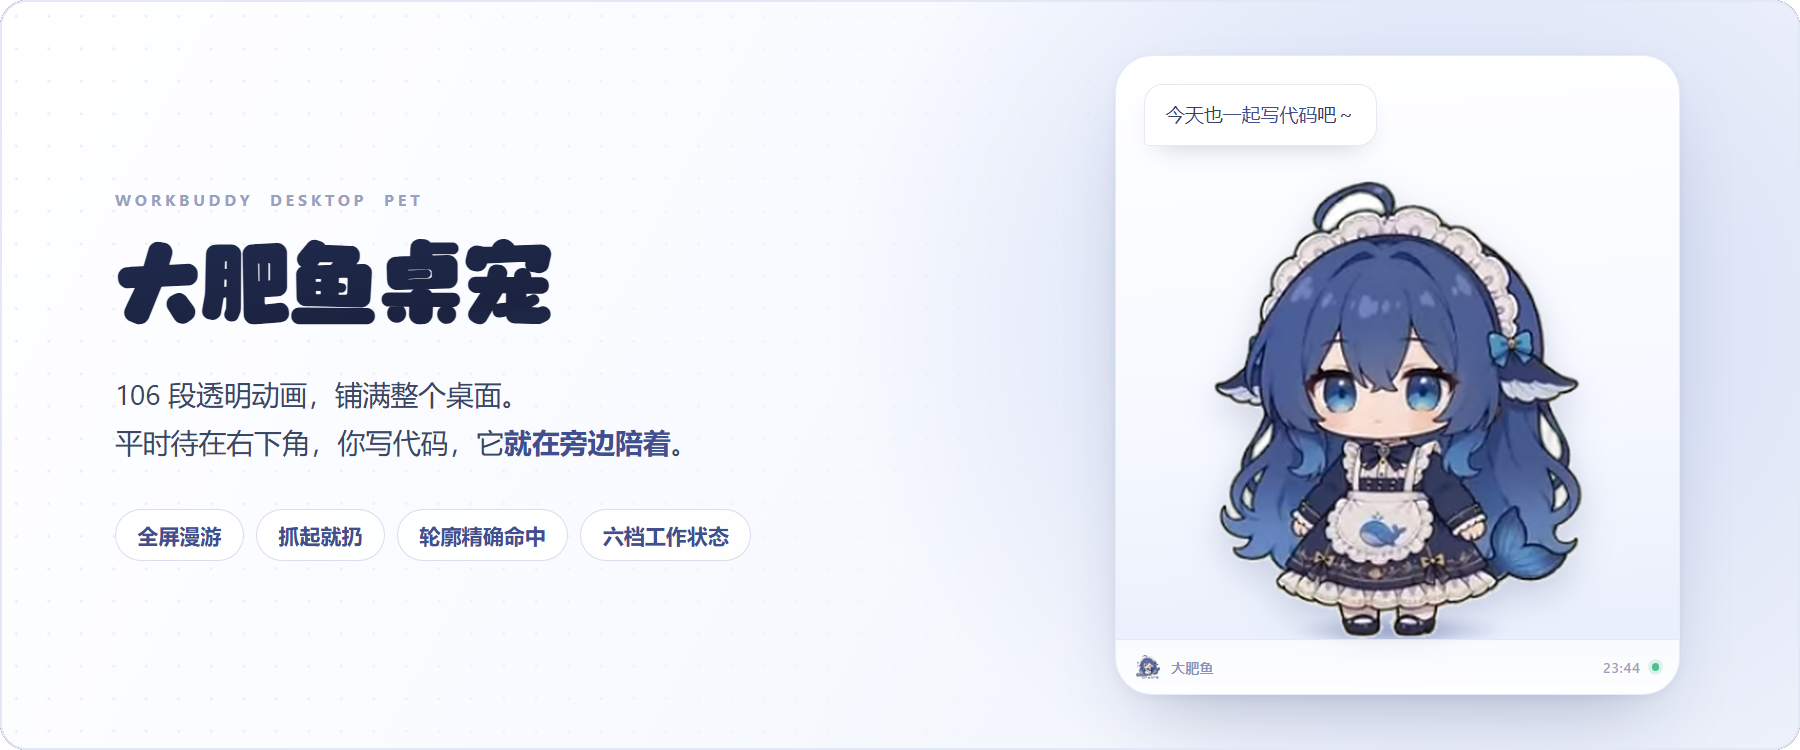
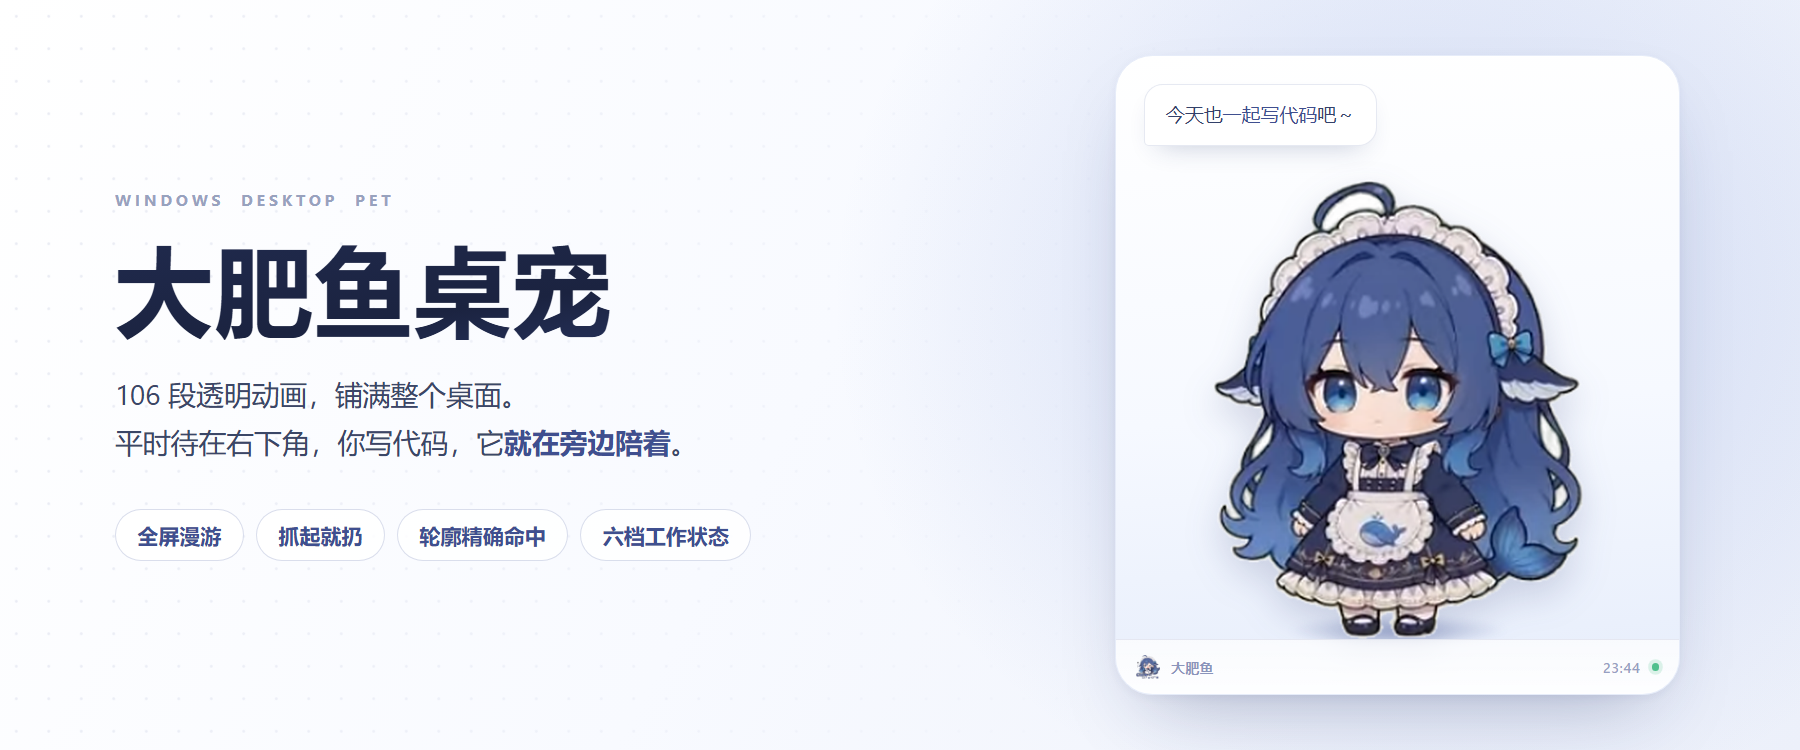
文案改成通用桌面宠物定位
- README：标题 / 副标题 / 状态联动 / 常驻 / FAQ 统一去掉特定工具指向，
  "预览面板""这台机器"等开发者措辞改口语；常驻一节删掉改版历史叙述，
  只留「登录自启 + 崩溃自愈」两条用户关心的
- 头图眼标 WORKBUDDY DESKTOP PET → WINDOWS DESKTOP PET，重渲 docs/hero.png
- 窗口标题、desktop/package.json 描述、CLI help、config 注释、start.bat 提示同步
- 托盘「开机自启」与计划任务的关系补成一张表，说清是两条路任选

diff --git a/js/config.js b/js/config.js
@@ -1,4 +1,4 @@
-// wb-pet 配置（等价于 dsh-pet 0.3.7 的 assets/config.jsonc，去掉注释、按 WorkBuddy 场景裁剪）
+// wb-pet 配置（等价于 dsh-pet 0.3.7 的 assets/config.jsonc，去掉注释、按桌面场景裁剪）
 // 想换动作池 / 权重 / 物理手感，改这里即可；所有字段缺失时 js/pet.js 内部有兜底。
 
 export const DEFAULT_CONFIG = {
@@ -18,7 +18,7 @@ export const DEFAULT_CONFIG = {
       name: '大肥鱼',
       size: 560,                     // 宽度 px，高度自动 = size × 9/16（16:9 画布里人物约占 1/3 宽）
       fixedEnabled: false,           // true = 随机链不再自己转身 / 走开
-      workStatusEnabled: true,       // 跟随 WorkBuddy 会话状态切档位动画
+      workStatusEnabled: true,       // 跟随外部事件切档位动画
       whisperEnabled: true,          // 定时碎碎念（本地文案池）
       display: 'web',
     },

diff --git a/dev/design/hero.html b/dev/design/hero.html
@@ -231,7 +231,7 @@
   <div class="grid"></div>
 
   <div class="copy">
-    <div class="eyebrow">WORKBUDDY&nbsp;&nbsp;DESKTOP&nbsp;&nbsp;PET</div>
+    <div class="eyebrow">WINDOWS&nbsp;&nbsp;DESKTOP&nbsp;&nbsp;PET</div>
     <h1>大肥鱼桌宠</h1>
     <p class="desc">
       106 段透明动画，铺满整个桌面。<br>

diff --git a/index.html b/index.html
@@ -3,7 +3,7 @@
 <head>
   <meta charset="UTF-8" />
   <meta name="viewport" content="width=device-width, initial-scale=1.0" />
-  <title>大肥鱼 · WorkBuddy 桌宠</title>
+  <title>大肥鱼 · 桌面宠物</title>
   <link rel="icon" href="assets/logo.png" />
   <link rel="stylesheet" href="css/pet.css" />
 </head>
